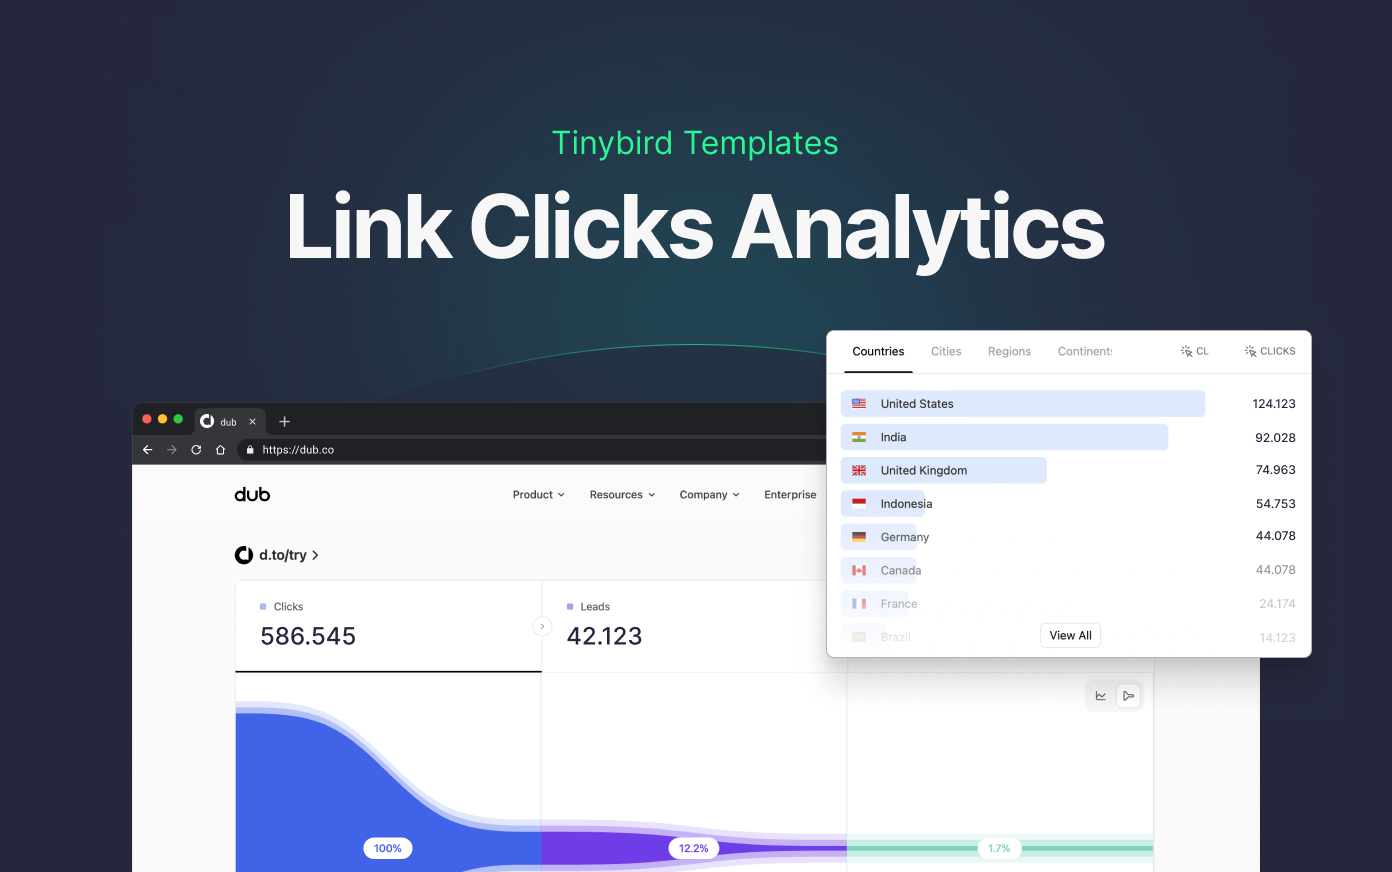
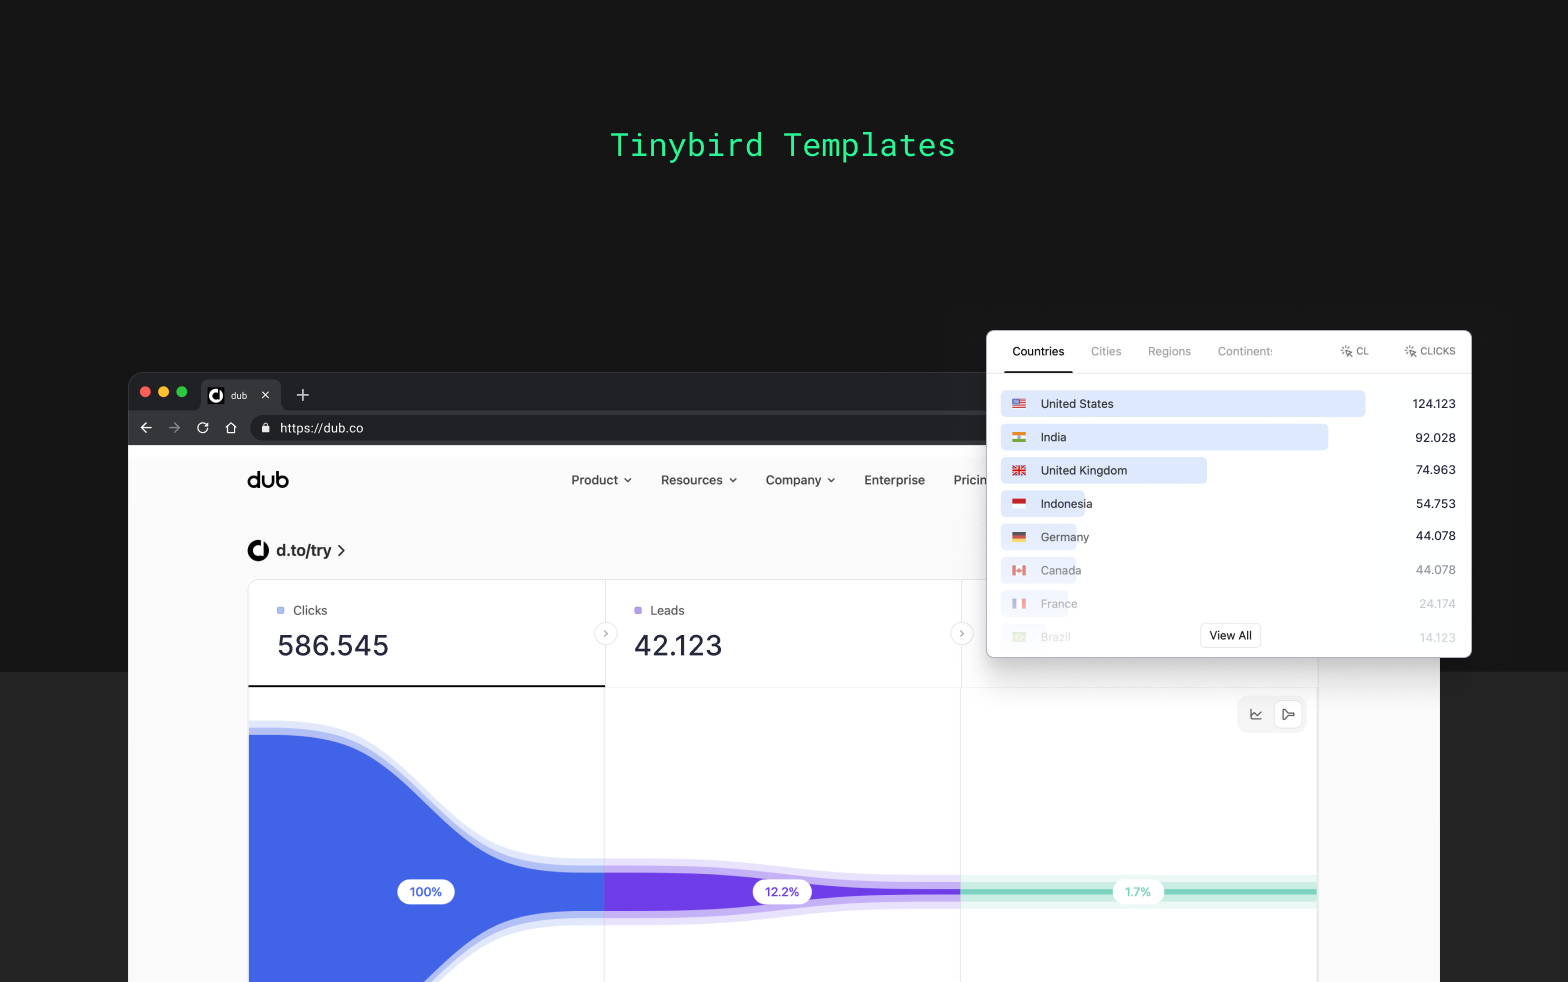
Change template images

diff --git a/README.md b/README.md
@@ -9,7 +9,7 @@ Fork this repo and create a PR which:
 - Adds a folder with the template assets: header image (1431×973) and TEMPLATE.md
 - Modifies `template.json` including these fields:
 
-```
+```json
 {
       "id": "<template-slug-id>",
       "title": "<card-title>",
@@ -19,10 +19,12 @@ Fork this repo and create a PR which:
       "demoUrl": "<url-to-public-demo>",
       "categories": ["category1", "category2"],
       "author": "<your-org-name>",
-      "image": "<url-to-header-image-1431×973>",
+      "image": "<url-to-header-image-1200×675>",
+      "ogImage": "<url-to-og-image-1200×630>",
       "readme": "<url-to-TEMPLATE.md>"
 }
 ```
+
 - `TEMPLATE.md` is rendered on your template page (`https://tinybird.co/templates/template-slug-id`), use simple markdown: headers, bullet points, links and code snippets.
 
-Once the PR is approved and merged it'll show up in: https://www.tinybird.co/templates
+Once the PR is approved and merged it'll show up in: [https://www.tinybird.co/templates](https://www.tinybird.co/templates)
